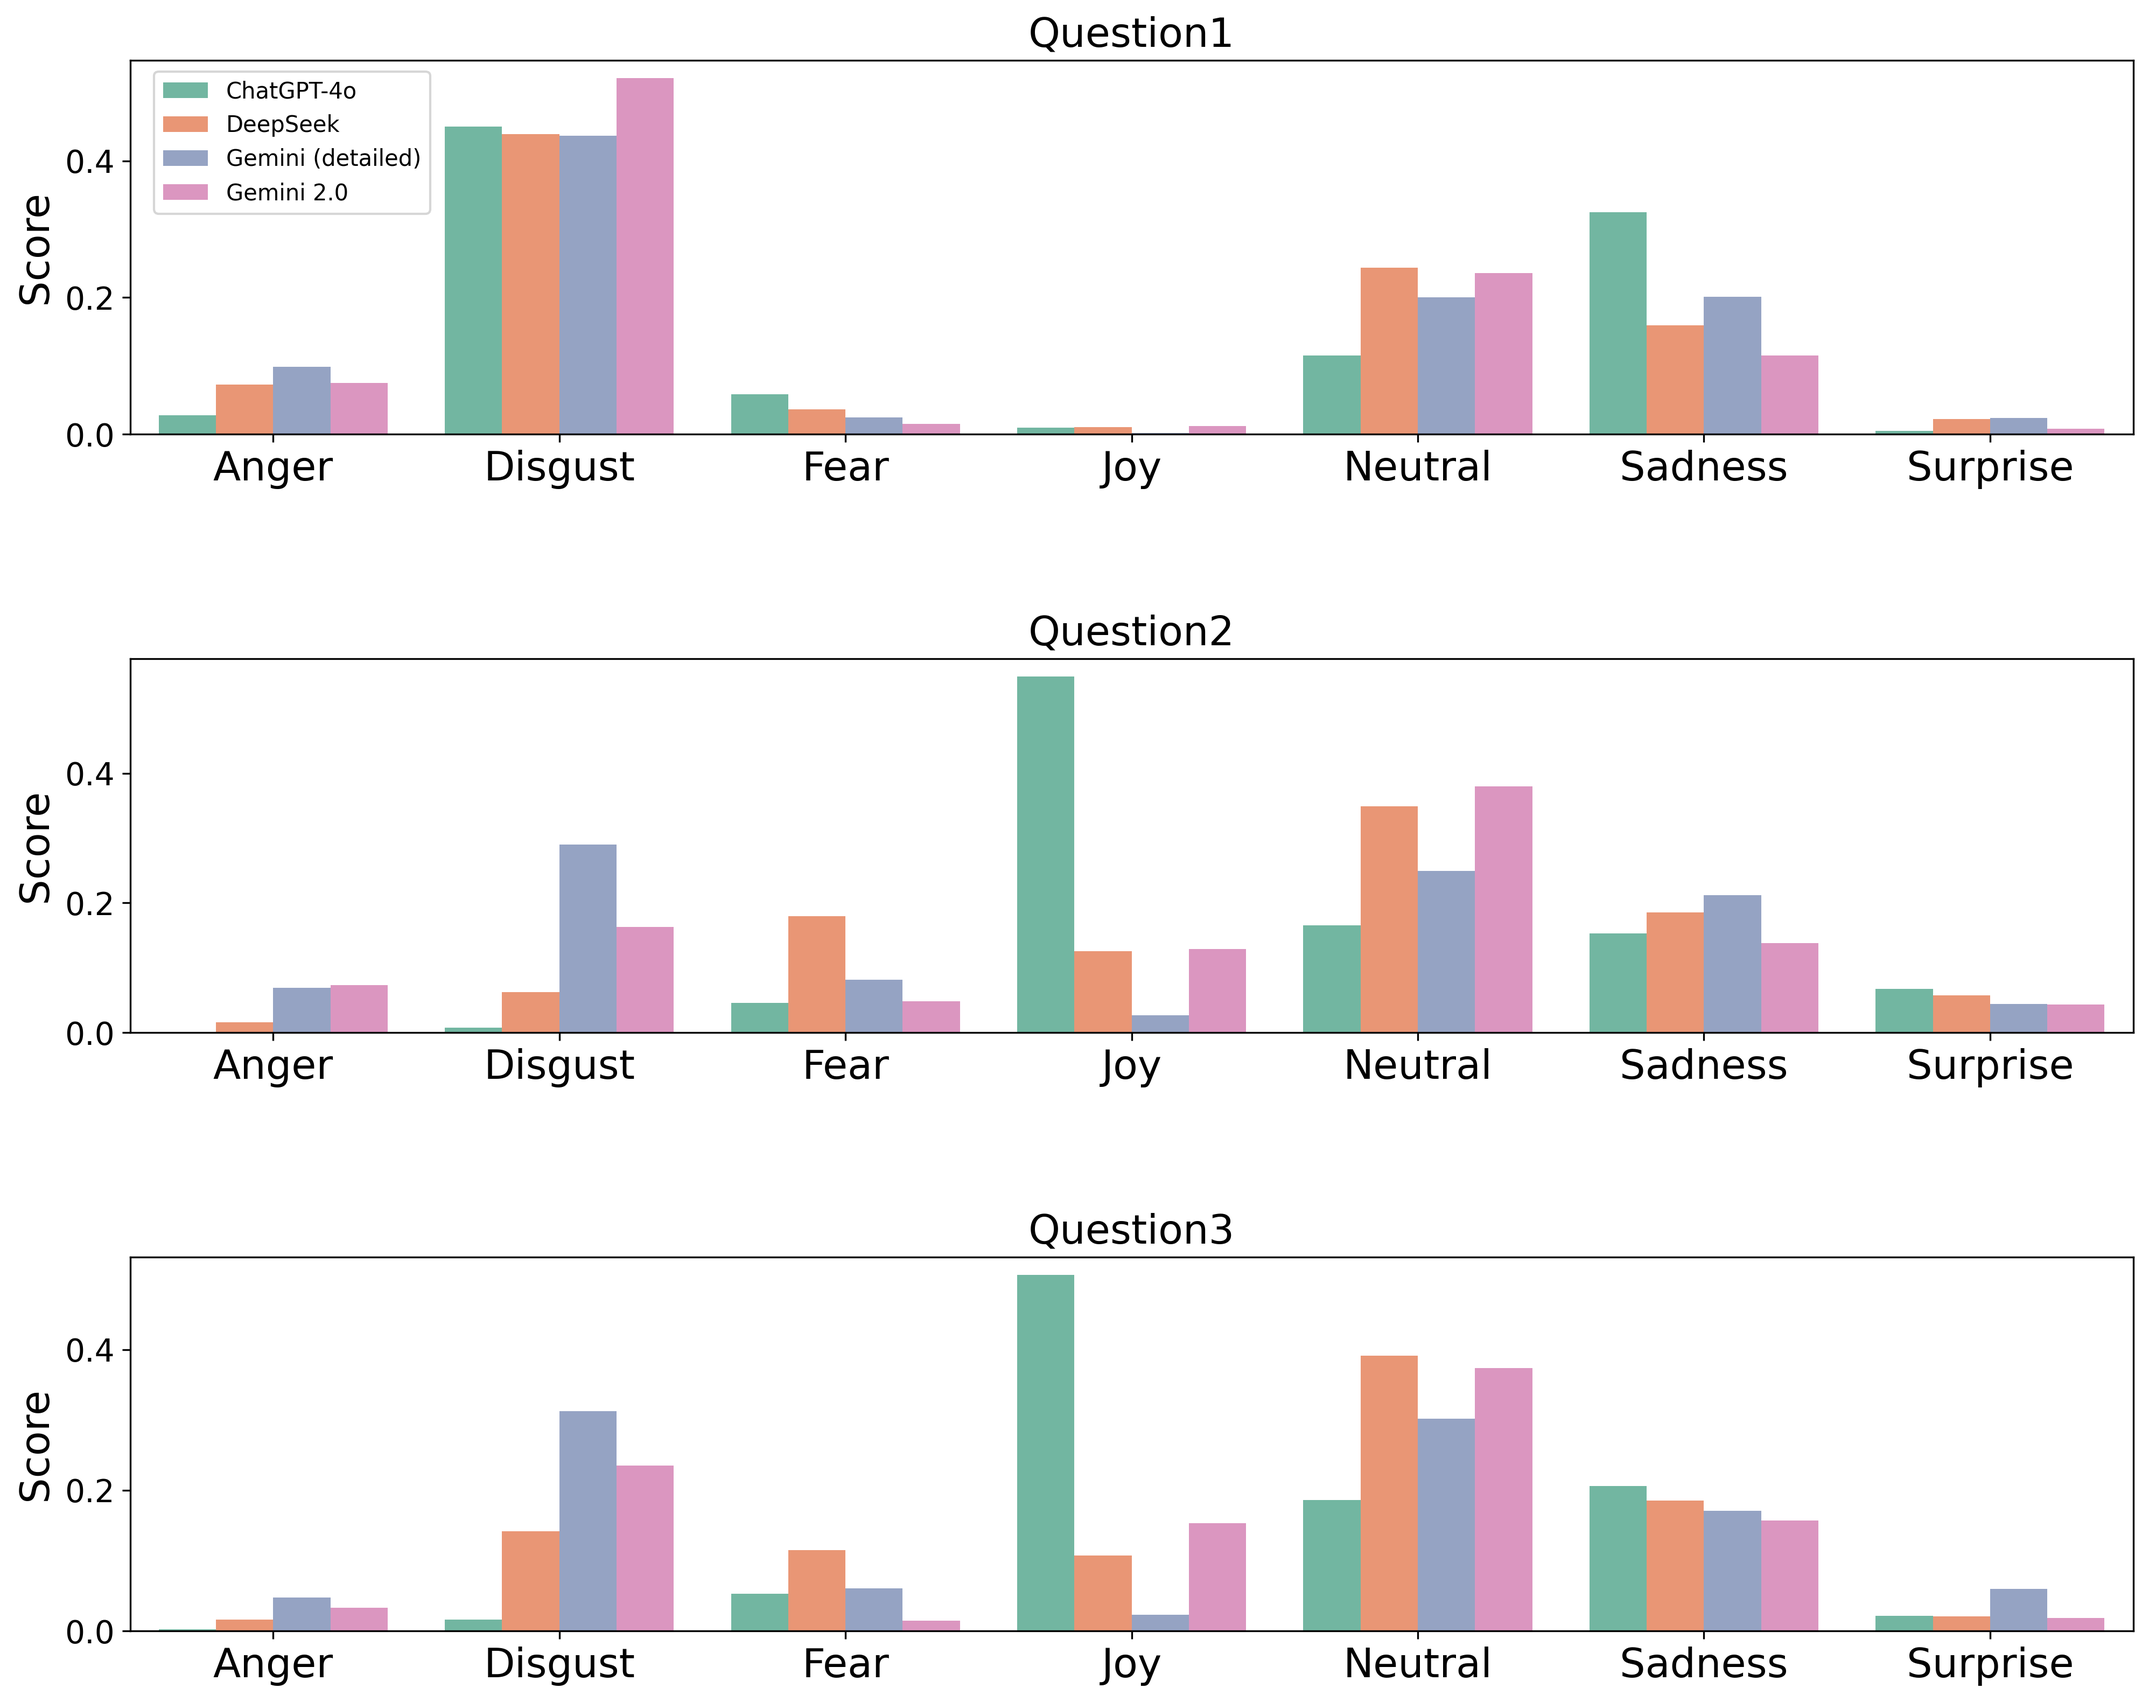
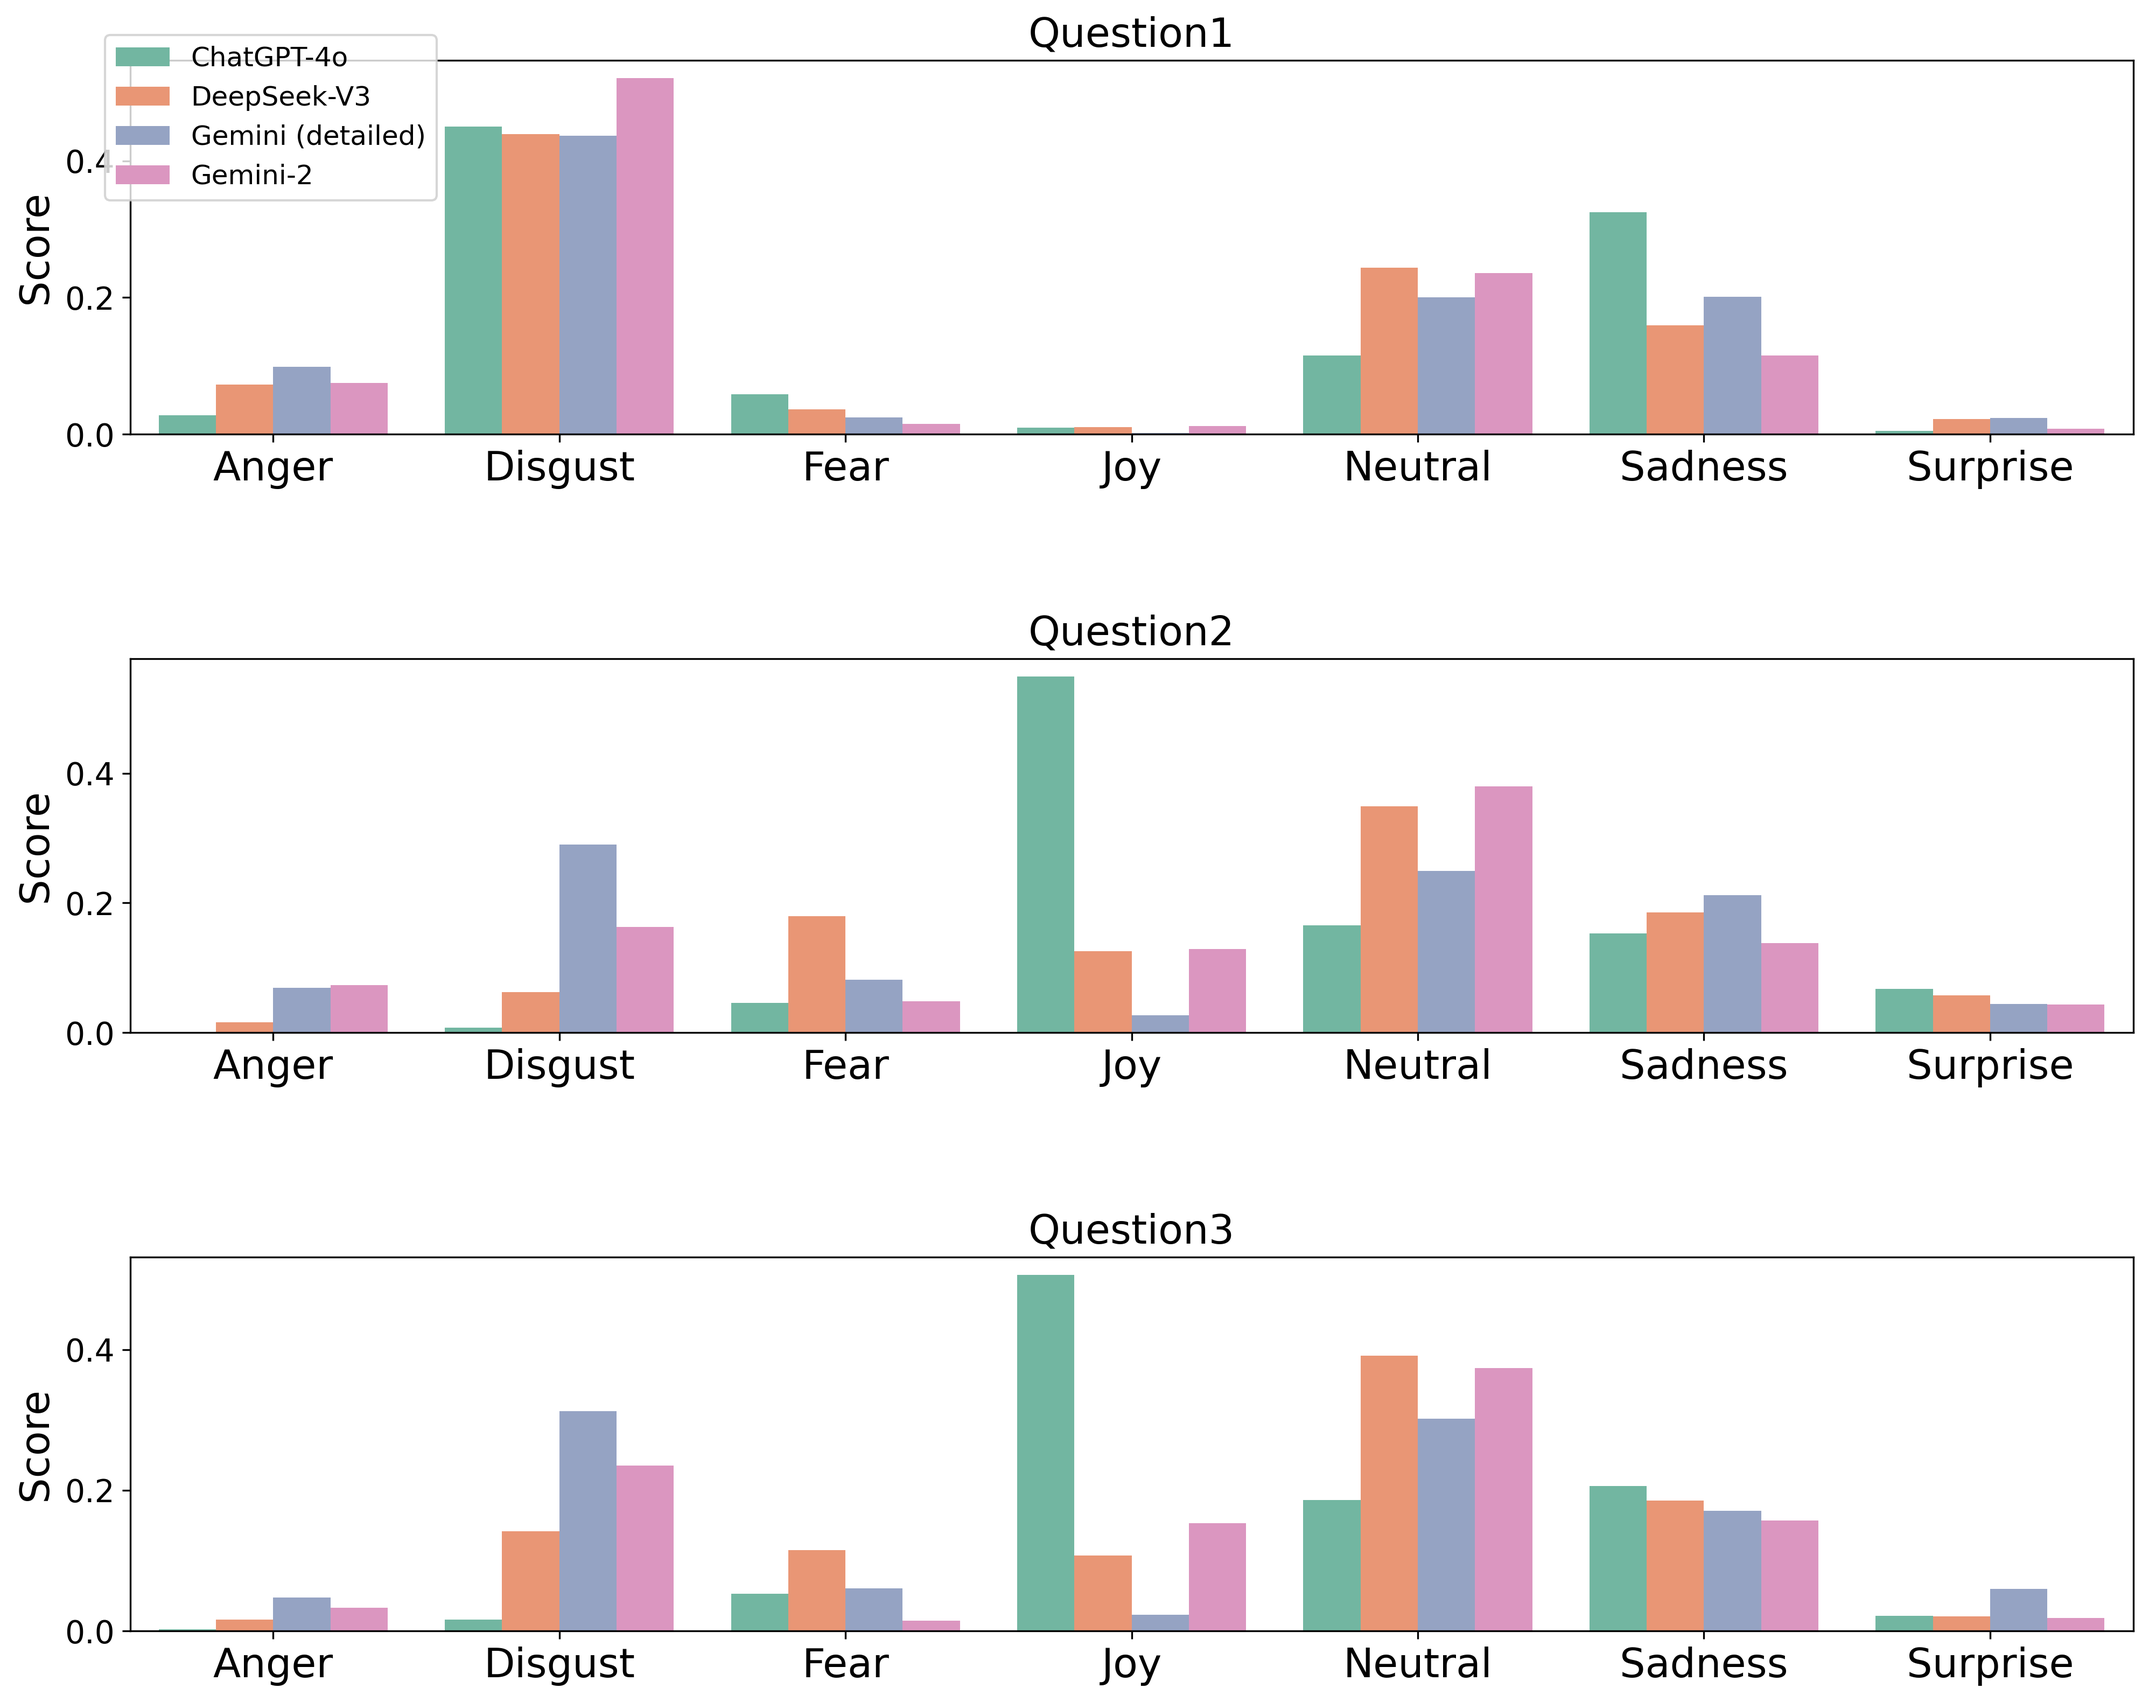
update AI model names,adjust legend and font size

Changed region(s): [[0.0311, 0.0, 0.2175, 0.1241]]

diff --git a/Visualization/emotion.py b/Visualization/emotion.py
@@ -10,8 +10,8 @@ ai_df.rename(columns={'File': 'AI Model'}, inplace=True)
 
 ai_df["AI Model"] = ai_df["AI Model"].replace({
     "aireviews_chatgpt.csv": "ChatGPT-4o",
-    "aireviews_deepseek.csv": "DeepSeek-",
-    "aireviews_gemini.csv": "Gemini 2.0",
+    "aireviews_deepseek.csv": "DeepSeek-V3",
+    "aireviews_gemini.csv": "Gemini-2",
     "aireviews_gemini_context_variation.csv": "Gemini (detailed)"
 })
 ai_df = ai_df.fillna(0)
@@ -62,15 +62,15 @@ def generate_emotion_box_plots(ai_df, source_name='ai', ax=None):
     if source_name == 'Subtitle':
         ai_df["AI Model"] = ai_df["AI Model"].replace({
             "aireviews_chatgpt.csv": "ChatGPT-4o",
-            "aireviews_deepseek.csv": "DeepSeek",
-            "aireviews_gemini.csv": "Gemini 2.0",
+            "aireviews_deepseek.csv": "DeepSeek-V3",
+            "aireviews_gemini.csv": "Gemini-2",
             "aireviews_gemini_context_variation.csv": "Gemini(detailed)"
         })
     elif source_name == 'Screenplay':
         ai_df["AI Model"] = ai_df["AI Model"].replace({
             "aireviews_chatgpt_screenplays.csv": "ChatGPT-4o",
-            "aireviews_deepseek_screenplays.csv": "DeepSeek",
-            "aireviews_gemini_screenplays.csv": "Gemini 2.0",
+            "aireviews_deepseek_screenplays.csv": "DeepSeek-V3",
+            "aireviews_gemini_screenplays.csv": "Gemini-2",
             "aireviews_gemini_screenplays_context_variation.csv": "Gemini(detailed)"
         })
     # replace NA with 0
@@ -122,7 +122,7 @@ generate_emotion_box_plots(screenplays_df, source_name='Screenplay', ax=axes[1])
 
 # add shared legend
 handles, labels = axes[1].get_legend_handles_labels()
-fig.legend(handles, labels, loc='upper left', bbox_to_anchor=(0.13, 0.92), ncol=1)
+fig.legend(handles, labels, loc='upper left', bbox_to_anchor=(0.125, 0.92), ncol=1,fontsize=12)
 
 fig.subplots_adjust(hspace=0.4, top=0.92)
 
@@ -178,7 +178,7 @@ def plot_emotion_by_question_subplots(ai_df):
 
     # add shared legend
     handles, labels = axes[0].get_legend_handles_labels()
-    fig.legend(handles, labels, loc='upper left', ncol=1, bbox_to_anchor=(0.13, 0.92))
+    fig.legend(handles, labels, loc='upper left', ncol=1, bbox_to_anchor=(0.11, 0.94), fontsize=12)
 
     fig.subplots_adjust(hspace=0.6, top=0.92)
 
@@ -272,8 +272,9 @@ axes[1].legend().set_visible(False)
 # display shared legend
 handles, labels = axes[1].get_legend_handles_labels()
 fig.legend(handles, labels, loc='upper left',
-           bbox_to_anchor=(0.125, 0.88),
-           ncol=1)
+           bbox_to_anchor=(0.12, 0.89),
+           ncol=1,
+           fontsize=13.5)
 
 # show the plot
 # plt.savefig('emotion_scores_by_moive.png',dpi=300, bbox_inches="tight")
